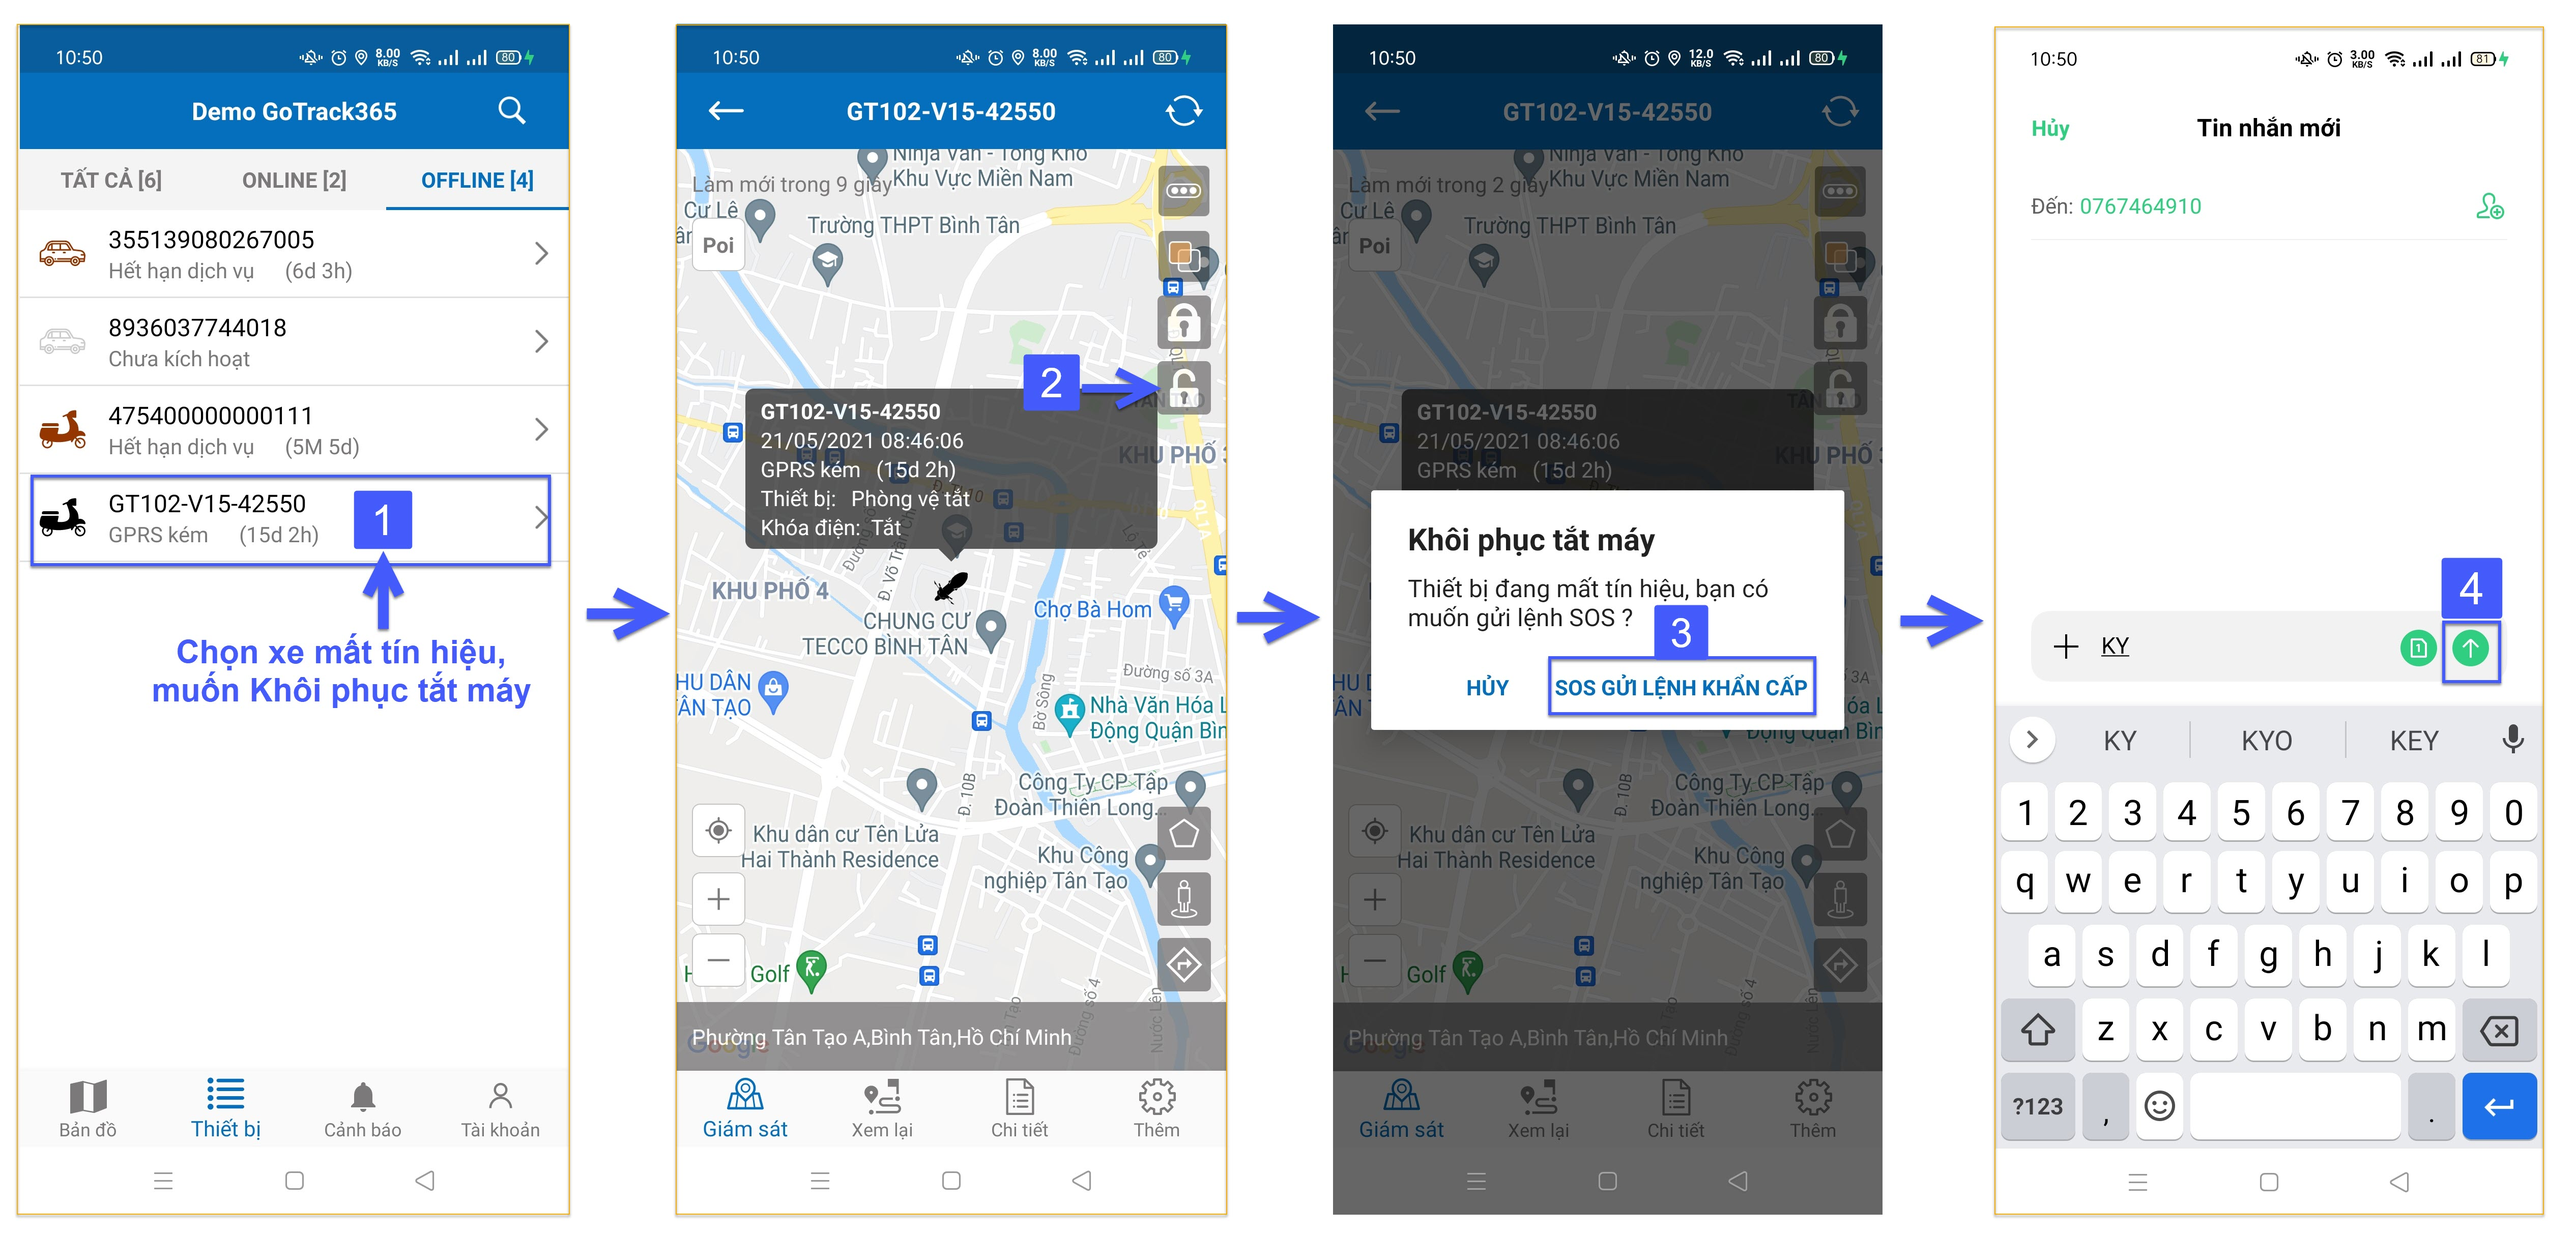
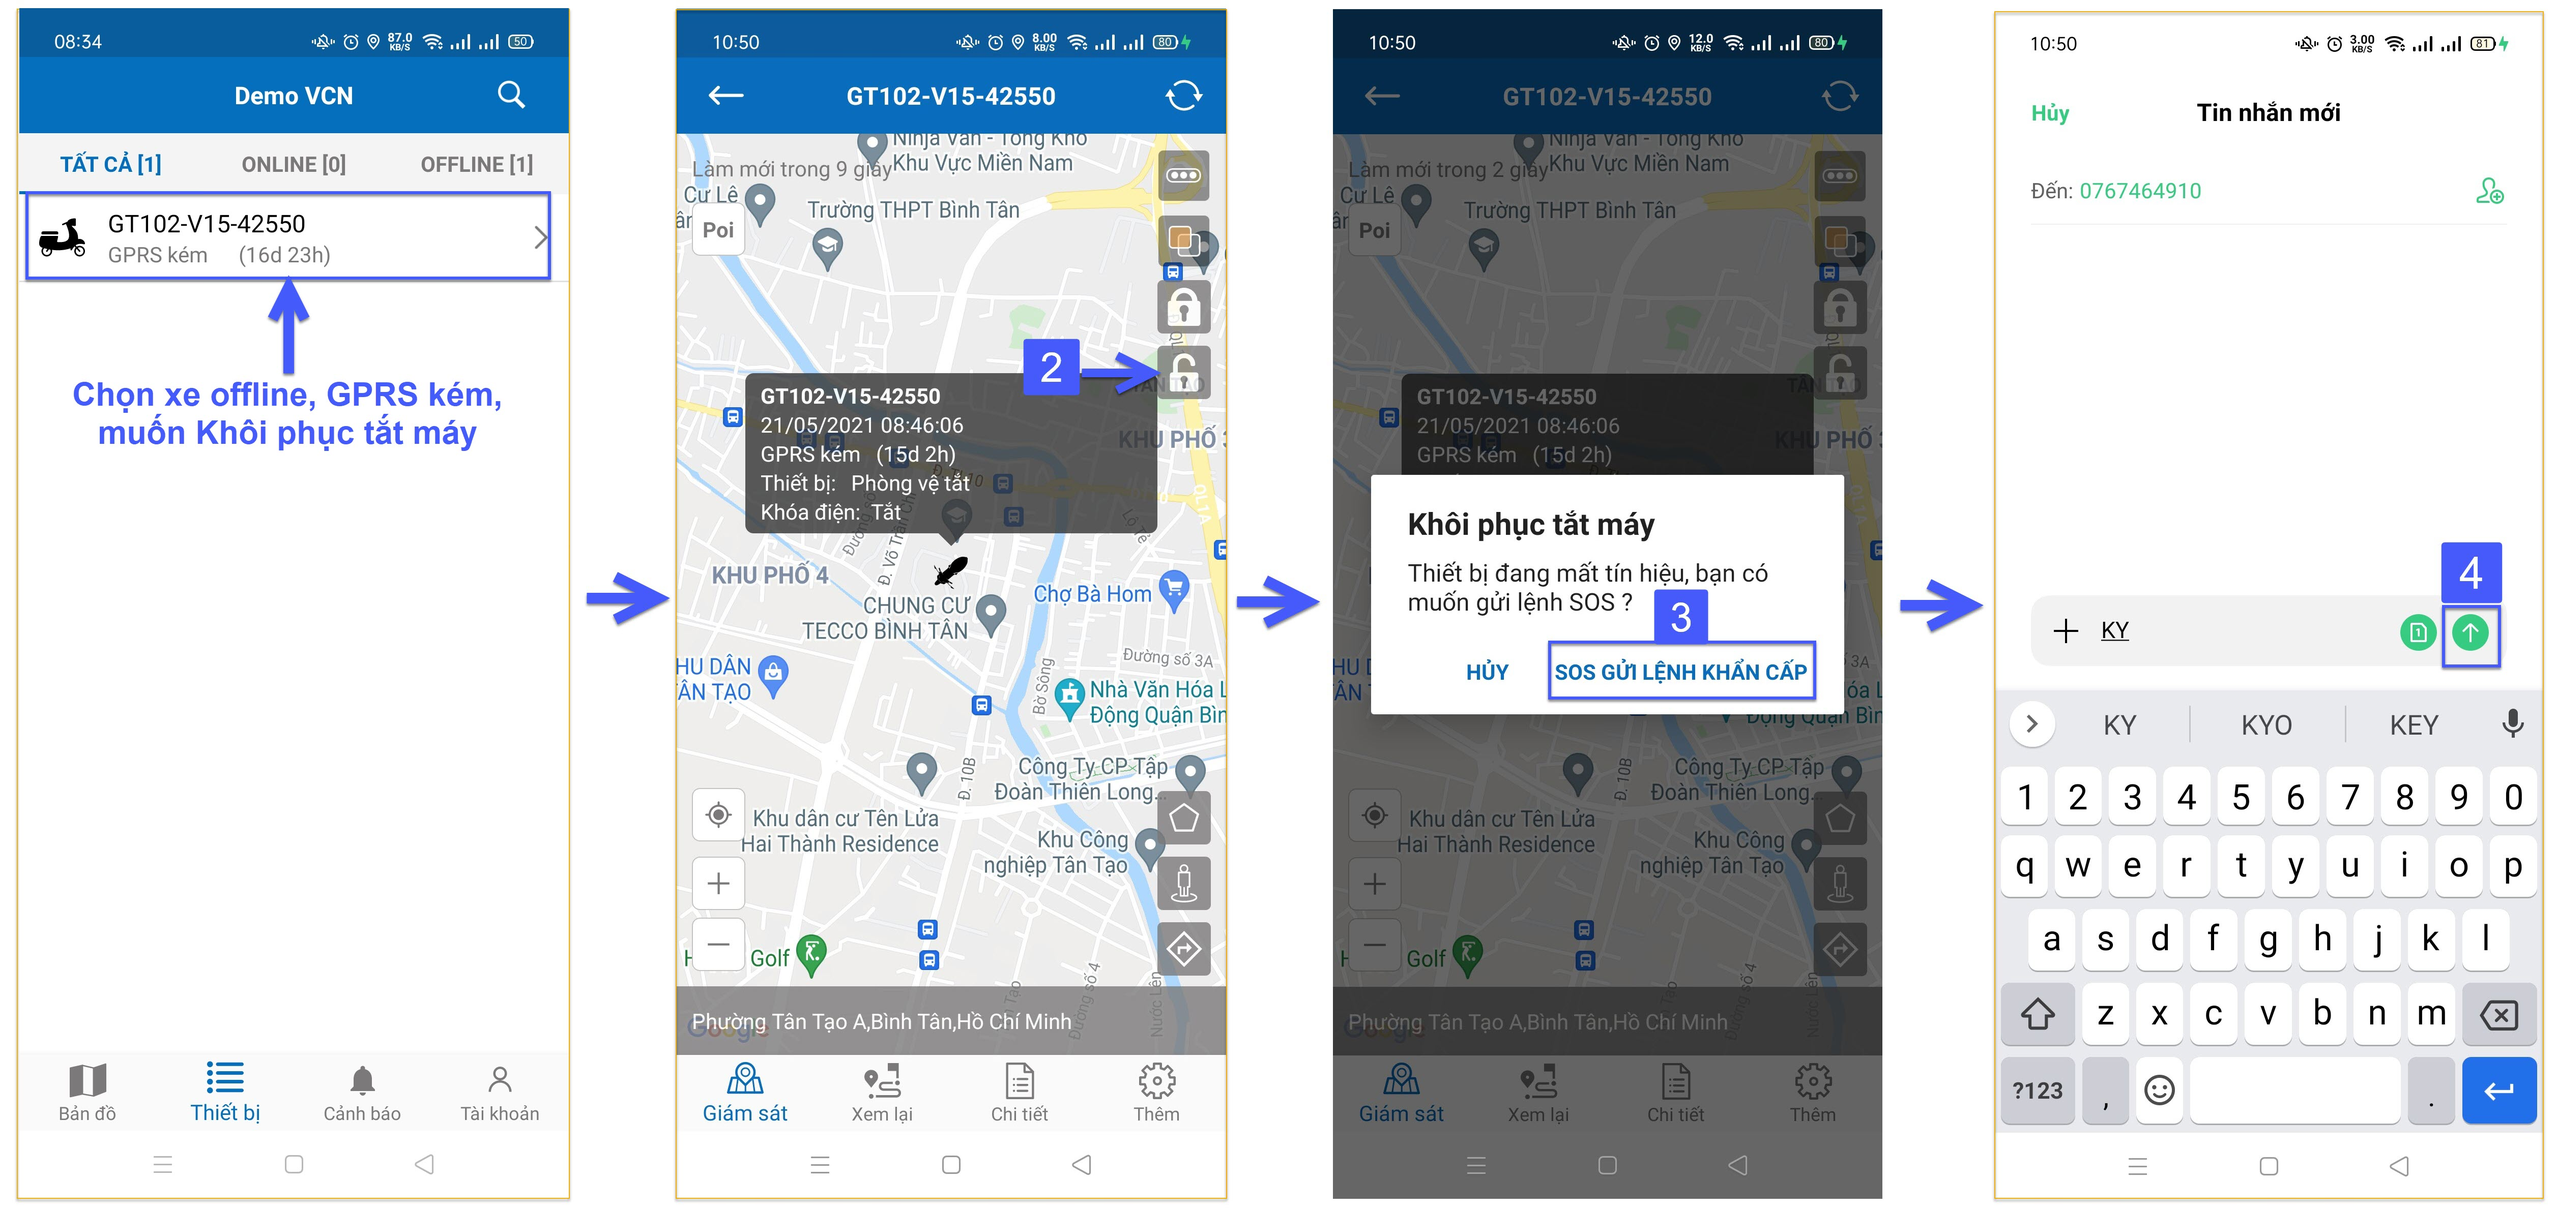
Thêm check SIM và lệnh SOS

diff --git a/modules/app-vcn/device/README_vi.md b/modules/app-vcn/device/README_vi.md
@@ -17,7 +17,7 @@ Vào mục **Thiết bị**, sẽ hiển thị ra danh sách thiết bị của 
 Có thể tìm kiếm theo các tiêu chí sau :
 - Tên thiết bị
 - IMEI
-- Sim ( Số điện thoại)
+- SIM ( Số điện thoại)
 
 <span class="icon-left8">![Interface Web](/docs/assets/images/web-interface/app-vcn/device-3.jpg)
 
@@ -27,9 +27,18 @@ Có thể tìm kiếm theo các tiêu chí sau :
 
 <span class="icon-left5">![Interface Web](/docs/assets/images/web-interface/app-vcn/detail.jpg)
 
+#### Kiểm tra và hiển thị trạng thái SIM
 
-**Lưu ý** : Đối với các trạng thái thiết bị sau đây :
+* **Tính năng check SIM không  hợp lệ cho loại thiết bị xe máy GT102**
 
+  <span style="display:block;text-align:center">![Interface Web](/docs/assets/images/web-interface/app-vcn/sim-invailed.jpg)
+
+  - Bước 1 : Vào tab **Thiết bị**. **Chọn xe** muốn kiểm tra SIM hợp lệ.
+  - Bước 2 : Nếu SIM không hợp lệ sẽ hiển thị hộp thoại như trên hình. Chọn **GỌI NGAY** để liên hệ nhà cung cấp kiểm tra và cập nhật lại.
+  - Bước 3 : Hiển thị sang màn hình gọi điện thoại. **Chọn SIM liên hệ** với số điện thoại đó.
+
+**Lưu ý** : 
+Đối với các trạng thái thiết bị sau đây :
 - Thiết bị **Hết hạn dịch vụ** :
   - Khi click vào sẽ hiện thông báo  : "**Thiết bị hết hạn, vui lòng liên hệ nhà cung cấp**" để gia hạn thêm.
   - Sẽ **không xem được Giám sát chi tiết** trên bản đồ.
